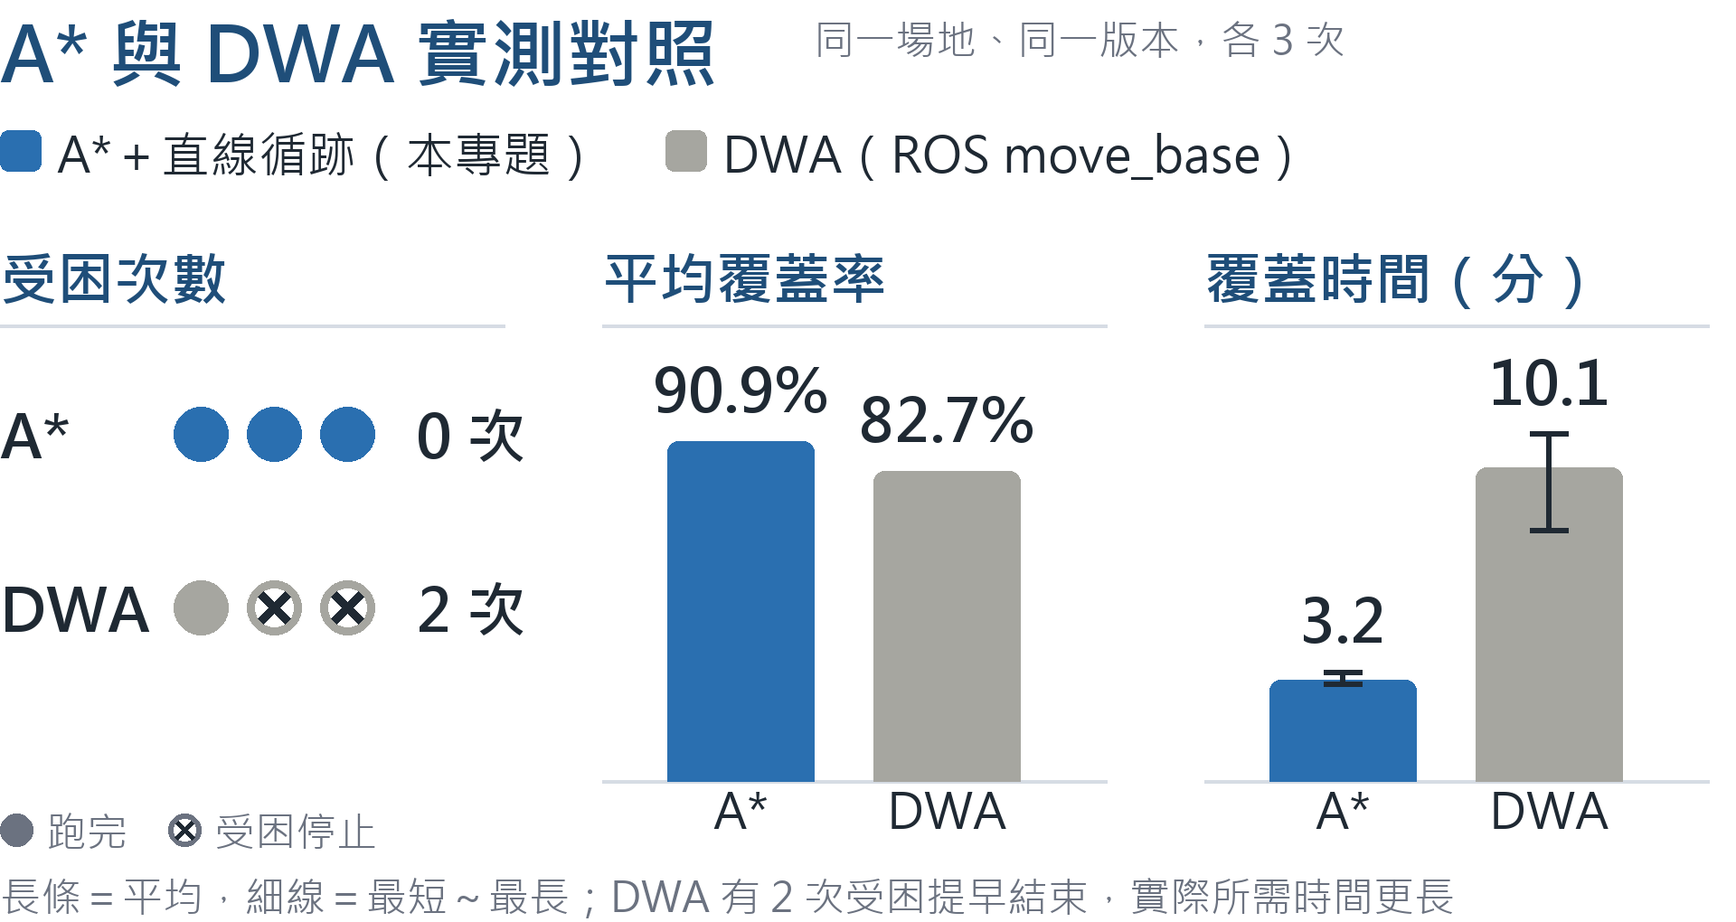
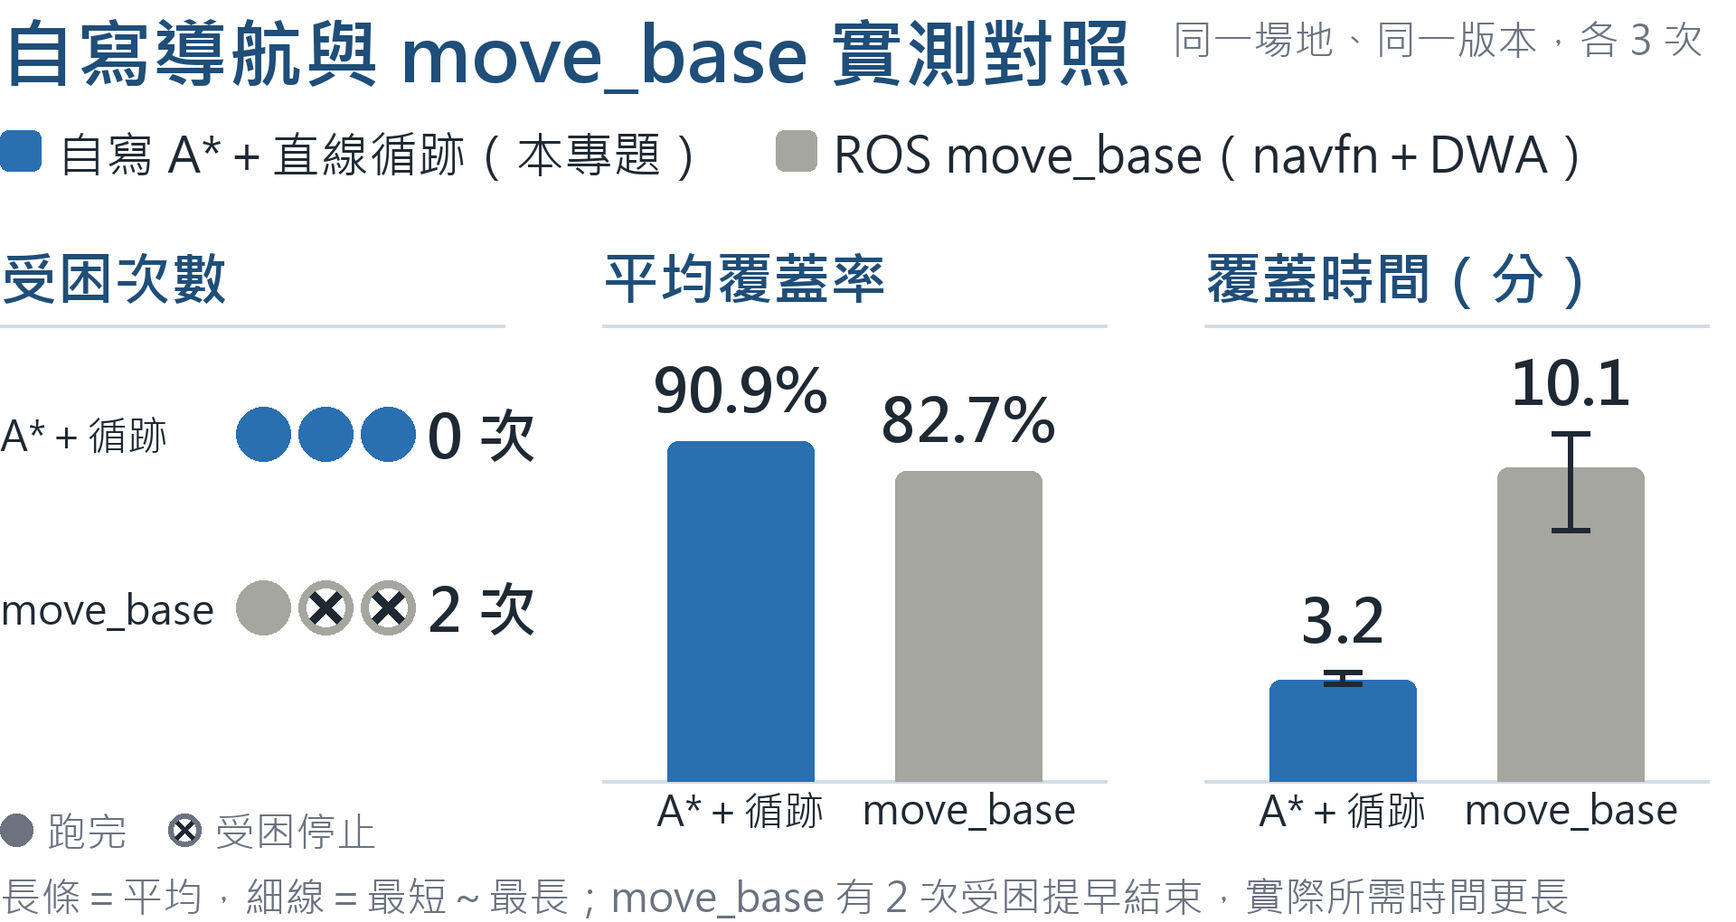
docs: 對照組名稱更正為 move_base（自寫 A*＋直線循跡 vs move_base），簡報與海報對照圖同步

diff --git a/docs/07_衝刺計畫/成果影片簡報/scenes/13-p4-dwa.html b/docs/07_衝刺計畫/成果影片簡報/scenes/13-p4-dwa.html
@@ -2,13 +2,13 @@
 <html lang="zh-Hant">
 <head>
 <meta charset="UTF-8">
-<title>13 問題四：DWA → A*</title>
+<title>13 問題四：move_base → 自寫 A*＋循跡</title>
 <link rel="stylesheet" href="base.css">
 <link rel="stylesheet" href="map.css">
 <style>.ch .base { position:absolute; left:20px; right:20px; bottom:70px; height:2px; background:#2a4a50; }
 .ch .bar { position:absolute; bottom:72px; width:120px; border-radius:6px 6px 0 0; }
 .ch .val { position:absolute; width:200px; text-align:center; font-size:44px; }
-.ch .lab { position:absolute; bottom:18px; width:200px; text-align:center; font-size:30px; font-weight:700; }
+.ch .lab { position:absolute; bottom:18px; width:200px; text-align:center; font-size:26px; font-weight:700; white-space:nowrap; }
 .sw { display:inline-block; width:22px; height:22px; border-radius:4px; vertical-align:-3px; margin-right:10px; }</style>
 <script src="../assets/scenes.js"></script>
 <script src="map.js"></script>
@@ -18,15 +18,15 @@
 <div class="stage">
 <svg id="corner" class="abs"></svg>
 <p class="abs kicker" id="kick" style="left:96px; top:64px;">問題四</p>
-<h1 class="abs k title" id="t" style="left:96px; top:108px;">DWA 在牆邊卡住</h1>
-<p class="abs" id="pp" style="left:96px; top:228px; font-size:32px;"><span class="pill p">問題</span>移動交給 ROS 的 DWA，牆邊找不到路就卡住，覆蓋拖很久甚至停擺。</p>
-<p class="abs" id="ps" style="left:96px; top:290px; font-size:32px;"><span class="pill s">解法</span>改用自寫 <span class="acid">A* 規劃路線＋直線循跡</span>。</p>
+<h1 class="abs k title" id="t" style="left:96px; top:108px;">move_base 在牆邊卡住</h1>
+<p class="abs" id="pp" style="left:96px; top:228px; font-size:32px;"><span class="pill p">問題</span>移動交給 ROS 的 move_base，它負責開車的 DWA 在牆邊找不到路就卡住，覆蓋拖很久甚至停擺。</p>
+<p class="abs" id="ps" style="left:96px; top:290px; font-size:32px;"><span class="pill s">解法</span>算路線、開車兩層一起換掉：自寫 <span class="acid">A* 規劃路線＋直線循跡開車</span>。</p>
 <p class="abs" id="pr" style="left:96px; top:352px; font-size:32px;"><span class="pill r">結果</span>同一場地各跑 3 次：</p>
-<p class="abs" id="lg" style="left:1300px; top:362px; font-size:26px;"><span class="sw" style="background:#DAFF3C;"></span>A*（本專題）　<span class="sw" style="background:#5f8288;"></span><span class="mute">DWA</span></p>
-<div class="abs ch C0" style="left:150px; top:430px; width:480px; height:560px;"><p style="font-size:36px; font-weight:900;">受困次數</p><p class="mute" style="font-size:22px;">3 次實驗中</p><div class="base"></div><div class="bar B0" style="left:60px; height:4px; background:#DAFF3C;"></div><p class="val num B0v" style="left:20px; bottom:76px; color:#DAFF3C;">0 次</p><p class="lab" style="left:20px;">A*</p><div class="bar B0" style="left:260px; height:213px; background:#5f8288;"></div><p class="val num B0v" style="left:220px; bottom:285px; color:#8FB3B8;">2 次</p><p class="lab" style="left:220px;">DWA</p></div>
-<div class="abs ch C1" style="left:720px; top:430px; width:480px; height:560px;"><p style="font-size:36px; font-weight:900;">覆蓋時間</p><p class="mute" style="font-size:22px;">平均（分鐘）</p><div class="base"></div><div class="bar B1" style="left:60px; height:86px; background:#DAFF3C;"></div><p class="val num B1v" style="left:20px; bottom:158px; color:#DAFF3C;">3.2 分</p><p class="lab" style="left:20px;">A*</p><div class="bar B1" style="left:260px; height:269px; background:#5f8288;"></div><p class="val num B1v" style="left:220px; bottom:341px; color:#8FB3B8;">10.1 分</p><p class="lab" style="left:220px;">DWA</p></div>
-<div class="abs ch C2" style="left:1290px; top:430px; width:480px; height:560px;"><p style="font-size:36px; font-weight:900;">覆蓋率</p><p class="mute" style="font-size:22px;">平均</p><div class="base"></div><div class="bar B2" style="left:60px; height:291px; background:#DAFF3C;"></div><p class="val num B2v" style="left:20px; bottom:363px; color:#DAFF3C;">90.9%</p><p class="lab" style="left:20px;">A*</p><div class="bar B2" style="left:260px; height:265px; background:#5f8288;"></div><p class="val num B2v" style="left:220px; bottom:337px; color:#8FB3B8;">82.7%</p><p class="lab" style="left:220px;">DWA</p></div>
-<p class="abs mute" id="note" style="left:150px; top:1004px; font-size:24px;">A* 3 次全部跑完；DWA 只跑完 1 次，另 2 次受困提早結束，實際所需時間更長</p>
+<p class="abs" id="lg" style="left:960px; top:362px; font-size:26px;"><span class="sw" style="background:#DAFF3C;"></span>自寫 A*＋直線循跡（本專題）　<span class="sw" style="background:#5f8288;"></span><span class="mute">move_base（navfn＋DWA）</span></p>
+<div class="abs ch C0" style="left:150px; top:430px; width:480px; height:560px;"><p style="font-size:36px; font-weight:900;">受困次數</p><p class="mute" style="font-size:22px;">3 次實驗中</p><div class="base"></div><div class="bar B0" style="left:60px; height:4px; background:#DAFF3C;"></div><p class="val num B0v" style="left:20px; bottom:76px; color:#DAFF3C;">0 次</p><p class="lab" style="left:20px;">A*＋循跡</p><div class="bar B0" style="left:260px; height:213px; background:#5f8288;"></div><p class="val num B0v" style="left:220px; bottom:285px; color:#8FB3B8;">2 次</p><p class="lab" style="left:220px;">move_base</p></div>
+<div class="abs ch C1" style="left:720px; top:430px; width:480px; height:560px;"><p style="font-size:36px; font-weight:900;">覆蓋時間</p><p class="mute" style="font-size:22px;">平均（分鐘）</p><div class="base"></div><div class="bar B1" style="left:60px; height:86px; background:#DAFF3C;"></div><p class="val num B1v" style="left:20px; bottom:158px; color:#DAFF3C;">3.2 分</p><p class="lab" style="left:20px;">A*＋循跡</p><div class="bar B1" style="left:260px; height:269px; background:#5f8288;"></div><p class="val num B1v" style="left:220px; bottom:341px; color:#8FB3B8;">10.1 分</p><p class="lab" style="left:220px;">move_base</p></div>
+<div class="abs ch C2" style="left:1290px; top:430px; width:480px; height:560px;"><p style="font-size:36px; font-weight:900;">覆蓋率</p><p class="mute" style="font-size:22px;">平均</p><div class="base"></div><div class="bar B2" style="left:60px; height:291px; background:#DAFF3C;"></div><p class="val num B2v" style="left:20px; bottom:363px; color:#DAFF3C;">90.9%</p><p class="lab" style="left:20px;">A*＋循跡</p><div class="bar B2" style="left:260px; height:265px; background:#5f8288;"></div><p class="val num B2v" style="left:220px; bottom:337px; color:#8FB3B8;">82.7%</p><p class="lab" style="left:220px;">move_base</p></div>
+<p class="abs mute" id="note" style="left:150px; top:1004px; font-size:24px;">A*＋循跡 3 次全部跑完；move_base 只跑完 1 次，另 2 次受困提早結束，實際所需時間更長</p>
 </div>
 <script>
 const d = SCENES.cover, M = MapSVG;

diff --git a/docs/07_衝刺計畫/成果影片簡報/scenes/14-conclusion.html b/docs/07_衝刺計畫/成果影片簡報/scenes/14-conclusion.html
@@ -20,7 +20,7 @@
 <div class="abs h2" style="left:1010px; top:306px; width:820px; height:2px; background:#39E6FF;"></div>
 <div class="abs cc0" style="left:96px; top:340px; width:820px;"><p style="font-size:34px; font-weight:900;">自動建圖</p><p style="font-size:28px; line-height:1.5; margin-top:8px;">開機後自主探索建圖，實測 <span class="num acid">6 / 6</span> 次建出完整地圖</p></div>
 <div class="abs cc1" style="left:96px; top:560px; width:820px;"><p style="font-size:34px; font-weight:900;">覆蓋規劃</p><p style="font-size:28px; line-height:1.5; margin-top:8px;">PCA 主軸對齊＋cell 分解；6 次實測規劃，<span class="num acid">331</span> 段掃描線全在可走區內</p></div>
-<div class="abs cc2" style="left:96px; top:780px; width:820px;"><p style="font-size:34px; font-weight:900;">循跡執行</p><p style="font-size:28px; line-height:1.5; margin-top:8px;">自寫 A*＋直線循跡取代 DWA：受困 <span class="num acid">2 → 0</span> 次、覆蓋時間 <span class="num acid">10.1 → 3.2</span> 分、覆蓋率 <span class="num acid">82.7 → 90.9%</span></p></div>
+<div class="abs cc2" style="left:96px; top:780px; width:820px;"><p style="font-size:34px; font-weight:900;">循跡執行</p><p style="font-size:28px; line-height:1.5; margin-top:8px;">自寫 A*＋直線循跡取代 move_base：受困 <span class="num acid">2 → 0</span> 次、覆蓋時間 <span class="num acid">10.1 → 3.2</span> 分、覆蓋率 <span class="num acid">82.7 → 90.9%</span></p></div>
 <div class="abs ff0" style="left:1010px; top:340px; width:820px;"><p style="font-size:34px; font-weight:900;">A* 牆邊原地轉向仍偶有擦撞</p><p class="mute" style="font-size:26px; margin-top:6px;">3 次實驗推估 3 次</p><p style="font-size:28px; margin-top:8px;"><span class="cyan">未來</span>　改善定位、加強轉向前的空間檢查</p></div>
 <div class="abs ff1" style="left:1010px; top:560px; width:820px;"><p style="font-size:34px; font-weight:900;">只驗證單一長方形空間</p><p class="mute" style="font-size:26px; margin-top:6px;">L 形、多房間時 PCA 只給一個方向</p><p style="font-size:28px; margin-top:8px;"><span class="cyan">未來</span>　先分區，再各自規劃</p></div>
 <div class="abs ff2" style="left:1010px; top:780px; width:820px;"><p style="font-size:34px; font-weight:900;">要先建完圖才能規劃</p><p class="mute" style="font-size:26px; margin-top:6px;">大空間要等整張地圖建好</p><p style="font-size:28px; margin-top:8px;"><span class="cyan">未來</span>　邊建圖邊覆蓋</p></div>

diff --git a/docs/07_衝刺計畫/成果影片簡報/index.html b/docs/07_衝刺計畫/成果影片簡報/index.html
@@ -9,7 +9,7 @@
 <iframe id="f" allow="fullscreen"></iframe>
 <p id="hud"></p>
 <script>
-const S = [["01-cover", "01 開場"], ["02-layers", "02 系統三層"], ["03-flow", "03 一鍵流程"], ["04-mapping", "04 自動建圖"], ["05-method", "05 覆蓋規劃五步驟"], ["06-pca", "06 ① PCA ② 切帶"], ["07-cells", "07 ③ cell 分解 ④ 牛耕 ⑤ 銜接"], ["08-margin", "08 安全邊距"], ["09-execute", "09 循跡執行"], ["10-p1-pca", "10 問題一：為什麼要 PCA"], ["11-p2-cross", "11 問題二：穿過障礙"], ["12-p3-noise", "12 問題三：假障礙"], ["13-p4-dwa", "13 問題四：DWA → A*"], ["14-conclusion", "14 結論與未來規劃"], ["15-demo", "15 實機展示"]];
+const S = [["01-cover", "01 開場"], ["02-layers", "02 系統三層"], ["03-flow", "03 一鍵流程"], ["04-mapping", "04 自動建圖"], ["05-method", "05 覆蓋規劃五步驟"], ["06-pca", "06 ① PCA ② 切帶"], ["07-cells", "07 ③ cell 分解 ④ 牛耕 ⑤ 銜接"], ["08-margin", "08 安全邊距"], ["09-execute", "09 循跡執行"], ["10-p1-pca", "10 問題一：為什麼要 PCA"], ["11-p2-cross", "11 問題二：穿過障礙"], ["12-p3-noise", "12 問題三：假障礙"], ["13-p4-dwa", "13 問題四：move_base → 自寫 A*＋循跡"], ["14-conclusion", "14 結論與未來規劃"], ["15-demo", "15 實機展示"]];
 let i = 0, hideT = null;
 // 記住上次看到第幾頁；頁數變少時（例如 14→13 頁）舊頁碼會超出範圍、畫面全黑，所以超出就從第 1 頁開始
 try { const k = parseInt(localStorage.getItem('ccpp-scene'), 10); if (k >= 0 && k < S.length) i = k; } catch (e) {}

diff --git a/docs/07_衝刺計畫/成果影片簡報/tools/build_scenes.py b/docs/07_衝刺計畫/成果影片簡報/tools/build_scenes.py
@@ -511,18 +511,20 @@ Scene({ duration: 11, steps: [2.4, 6.0], tracks: [
 .dt.w { fill:#DAFF3C; } .dt.big { fill:#F2F7F5; font-size:3.6px; }
 .ok { fill:#DAFF3C; font-size:3.6px; font-weight:900; text-anchor:middle; }''')
 
-# ═══ 13 問題四：DWA → A*（含數據總表）═══════════════════════
-# 三張長條圖：受困次數、覆蓋時間、覆蓋率；A*（本專題）黃綠、DWA 灰。每按一下出一張
-charts = [('受困次數', '3 次實驗中', [('A*', 0, '0 次'), ('DWA', 2, '2 次')], 3),
-          ('覆蓋時間', '平均（分鐘）', [('A*', 3.24, '3.2 分'), ('DWA', 10.07, '10.1 分')], 12),
-          ('覆蓋率', '平均', [('A*', 90.9, '90.9%'), ('DWA', 82.7, '82.7%')], 100)]
+# ═══ 13 問題四：move_base → 自寫 A*＋直線循跡（含數據總表）═══════════════════════
+# 三張長條圖：受困次數、覆蓋時間、覆蓋率；自寫 A*＋循跡（本專題）黃綠、move_base（navfn＋DWA）灰。每按一下出一張
+# 兩層（算路線、開車）一起換掉，所以比較對象是兩套完整導航，不寫成「A* vs DWA」
+A_, M_ = 'A*＋循跡', 'move_base'
+charts = [('受困次數', '3 次實驗中', [(A_, 0, '0 次'), (M_, 2, '2 次')], 3),
+          ('覆蓋時間', '平均（分鐘）', [(A_, 3.24, '3.2 分'), (M_, 10.07, '10.1 分')], 12),
+          ('覆蓋率', '平均', [(A_, 90.9, '90.9%'), (M_, 82.7, '82.7%')], 100)]
 body = '''<svg id="corner" class="abs"></svg>
 <p class="abs kicker" id="kick" style="left:96px; top:64px;">問題四</p>
-<h1 class="abs k title" id="t" style="left:96px; top:108px;">DWA 在牆邊卡住</h1>
-<p class="abs" id="pp" style="left:96px; top:228px; font-size:32px;"><span class="pill p">問題</span>移動交給 ROS 的 DWA，牆邊找不到路就卡住，覆蓋拖很久甚至停擺。</p>
-<p class="abs" id="ps" style="left:96px; top:290px; font-size:32px;"><span class="pill s">解法</span>改用自寫 <span class="acid">A* 規劃路線＋直線循跡</span>。</p>
+<h1 class="abs k title" id="t" style="left:96px; top:108px;">move_base 在牆邊卡住</h1>
+<p class="abs" id="pp" style="left:96px; top:228px; font-size:32px;"><span class="pill p">問題</span>移動交給 ROS 的 move_base，它負責開車的 DWA 在牆邊找不到路就卡住，覆蓋拖很久甚至停擺。</p>
+<p class="abs" id="ps" style="left:96px; top:290px; font-size:32px;"><span class="pill s">解法</span>算路線、開車兩層一起換掉：自寫 <span class="acid">A* 規劃路線＋直線循跡開車</span>。</p>
 <p class="abs" id="pr" style="left:96px; top:352px; font-size:32px;"><span class="pill r">結果</span>同一場地各跑 3 次：</p>
-<p class="abs" id="lg" style="left:1300px; top:362px; font-size:26px;"><span class="sw" style="background:#DAFF3C;"></span>A*（本專題）　<span class="sw" style="background:#5f8288;"></span><span class="mute">DWA</span></p>
+<p class="abs" id="lg" style="left:960px; top:362px; font-size:26px;"><span class="sw" style="background:#DAFF3C;"></span>自寫 A*＋直線循跡（本專題）　<span class="sw" style="background:#5f8288;"></span><span class="mute">move_base（navfn＋DWA）</span></p>
 '''
 for c, (name, sub, bars, vmax) in enumerate(charts):
     x0 = 150 + c * 570
@@ -536,8 +538,8 @@ for c, (name, sub, bars, vmax) in enumerate(charts):
                  f'<p class="val num B{c}v" style="left:{20 + b * 200}px; bottom:{max(h, 4) + 72:.0f}px; color:{"#DAFF3C" if b == 0 else "#8FB3B8"};">{txt}</p>'
                  f'<p class="lab" style="left:{20 + b * 200}px;">{lab}</p>')
     body += '</div>\n'
-body += '<p class="abs mute" id="note" style="left:150px; top:1004px; font-size:24px;">A* 3 次全部跑完；DWA 只跑完 1 次，另 2 次受困提早結束，實際所需時間更長</p>\n'
-scene('13-p4-dwa', '13 問題四：DWA → A*', body, '''
+body += '<p class="abs mute" id="note" style="left:150px; top:1004px; font-size:24px;">A*＋循跡 3 次全部跑完；move_base 只跑完 1 次，另 2 次受困提早結束，實際所需時間更長</p>\n'
+scene('13-p4-dwa', '13 問題四：move_base → 自寫 A*＋循跡', body, '''
 const d = SCENES.cover, M = MapSVG;
 document.getElementById('corner').outerHTML = M.open(d.bounds, 0.1, 'id="corner" class="abs" style="left:1500px; top:-1180px; width:1560px; height:1560px; opacity:.35;"')
   + M.cells(d.wall, d.res, 'wall') + M.route(d.plan) + M.close();
@@ -558,13 +560,13 @@ Scene({ duration: 10.4, steps: [1.4, 2.2, 3.0, 5.0, 7.2, 9.4], tracks: [
 ''', css='''.ch .base { position:absolute; left:20px; right:20px; bottom:70px; height:2px; background:#2a4a50; }
 .ch .bar { position:absolute; bottom:72px; width:120px; border-radius:6px 6px 0 0; }
 .ch .val { position:absolute; width:200px; text-align:center; font-size:44px; }
-.ch .lab { position:absolute; bottom:18px; width:200px; text-align:center; font-size:30px; font-weight:700; }
+.ch .lab { position:absolute; bottom:18px; width:200px; text-align:center; font-size:26px; font-weight:700; white-space:nowrap; }
 .sw { display:inline-block; width:22px; height:22px; border-radius:4px; vertical-align:-3px; margin-right:10px; }''')
 
 # ═══ 14 結論與未來規劃（與海報「五、結果與討論」一致）═══════
 concl = [('自動建圖', '開機後自主探索建圖，實測 <span class="num acid">6 / 6</span> 次建出完整地圖'),
          ('覆蓋規劃', 'PCA 主軸對齊＋cell 分解；6 次實測規劃，<span class="num acid">331</span> 段掃描線全在可走區內'),
-         ('循跡執行', '自寫 A*＋直線循跡取代 DWA：受困 <span class="num acid">2 → 0</span> 次、覆蓋時間 <span class="num acid">10.1 → 3.2</span> 分、覆蓋率 <span class="num acid">82.7 → 90.9%</span>')]
+         ('循跡執行', '自寫 A*＋直線循跡取代 move_base：受困 <span class="num acid">2 → 0</span> 次、覆蓋時間 <span class="num acid">10.1 → 3.2</span> 分、覆蓋率 <span class="num acid">82.7 → 90.9%</span>')]
 future = [('A* 牆邊原地轉向仍偶有擦撞', '3 次實驗推估 3 次', '改善定位、加強轉向前的空間檢查'),
           ('只驗證單一長方形空間', 'L 形、多房間時 PCA 只給一個方向', '先分區，再各自規劃'),
           ('要先建完圖才能規劃', '大空間要等整張地圖建好', '邊建圖邊覆蓋')]

diff --git a/docs/03_海報/gen_result_table.py b/docs/03_海報/gen_result_table.py
@@ -1,6 +1,6 @@
 #!/usr/bin/env python3
 """
-產生海報「四、成果展示」的 A* vs DWA 對照圖（640×340 海報 px）（三個並排小圖：受困、平均覆蓋率、覆蓋時間）。
+產生海報「四、成果展示」的 自寫 A*＋直線循跡 vs move_base 對照圖（640×340 海報 px）（三個並排小圖：受困、平均覆蓋率、覆蓋時間）。
 Canva 回傳超過 100k 字元會截斷、拿不到新文字元素 ID，故以圖片放入。
 
 形式：emphasis（本專題 A* 用強調藍、對照組 DWA 用灰），三個量級不同的指標各自一張小圖、各自從 0 起算（不共用軸）。
@@ -50,10 +50,11 @@ def cross(cx, cy, q, w=3):
 
 
 # 第一行：標題＋說明；第二行：圖例（≥ 2 個系列一定有圖例）
-d.text((p(0), p(0)), 'A* 與 DWA 實測對照', font=f_title, fill=NAVY)
-d.text((p(300), p(14)), '同一場地、同一版本，各 3 次', font=f_note, fill=MUTED, anchor='lm')
+# 兩層（算路線 A*／navfn、開車 循跡／DWA）一起換掉，所以比的是兩套完整導航，標籤不寫成「A* vs DWA」
+d.text((p(0), p(0)), '自寫導航與 move_base 實測對照', font=f_title, fill=NAVY)
+d.text((p(432), p(14)), '同一場地、同一版本，各 3 次', font=f_note, fill=MUTED, anchor='lm')
 lx = p(0)
-for col, name in ((ACC, 'A*＋直線循跡（本專題）'), (GRAY, 'DWA（ROS move_base）')):
+for col, name in ((ACC, '自寫 A*＋直線循跡（本專題）'), (GRAY, 'ROS move_base（navfn＋DWA）')):
     d.rounded_rectangle([lx, p(48), lx + p(15), p(63)], radius=p(3), fill=col)
     d.text((lx + p(21), p(56)), name, font=f_lab, fill=INK, anchor='lm')
     lx += p(21) + d.textlength(name, font=f_lab) + p(24)
@@ -66,17 +67,17 @@ for k, t in enumerate(('受困次數', '平均覆蓋率', '覆蓋時間（分）
     d.line([p(x0), p(PT + 32), p(x0 + PW - 10), p(PT + 32)], fill=RULE, width=p(1.5))
 
 # ── ① 受困：每次實驗一個點（實心＝跑完、空心＋✕＝受困停止） ──
-for j, (key, col, name) in enumerate((('A', ACC, 'A*'), ('D', GRAY, 'DWA'))):
+for j, (key, col, name) in enumerate((('A', ACC, 'A*＋循跡'), ('D', GRAY, 'move_base'))):
     cy = p(160 + j * 64)
-    d.text((p(0), cy), name, font=f_val, fill=INK, anchor='lm')
+    d.text((p(0), cy), name, font=f_note, fill=INK, anchor='lm')
     for i, s_ in enumerate(stuck[key]):
-        cx, r = p(74 + i * 27), p(10)
+        cx, r = p(97 + i * 23), p(10)
         if s_:
             d.ellipse([cx - r, cy - r, cx + r, cy + r], outline=col, width=p(3), fill='white')
             cross(cx, cy, p(5))
         else:
             d.ellipse([cx - r, cy - r, cx + r, cy + r], fill=col)
-    d.text((p(194), cy), f"{sum(stuck[key])} 次", font=f_val, fill=INK, anchor="rm")
+    d.text((p(198), cy), f"{sum(stuck[key])} 次", font=f_val, fill=INK, anchor="rm")
 ly = p(BOT + 18)
 d.ellipse([p(0), ly - p(6), p(12), ly + p(6)], fill=MUTED)
 d.text((p(17), ly), '跑完', font=f_note, fill=MUTED, anchor='lm')
@@ -88,7 +89,7 @@ d.text((p(79), ly), '受困停止', font=f_note, fill=MUTED, anchor='lm')
 def bars(x0, vals, vmax, fmt, ranges=None):
     """單軸長條：0 起算、上端 4 px 圓角，兩條之間留白；數值直接標在長條（或範圍線）上方。"""
     base, top = p(BOT), p(TOPB)
-    bw, gap = 54, 22
+    bw, gap = 54, 30
     d.line([p(x0), base, p(x0 + PW - 10), base], fill=RULE, width=p(1.5))
     for i, (key, col) in enumerate((('A', ACC), ('D', GRAY))):
         bx = x0 + 24 + i * (bw + gap)
@@ -105,13 +106,13 @@ def bars(x0, vals, vmax, fmt, ranges=None):
             d.line([cx, ylo, cx, yhi], fill=INK, width=p(2))
             ytxt = min(ytxt, yhi)
         d.text((p(bx + bw / 2), ytxt - p(5)), fmt(vals[key]), font=f_val, fill=INK, anchor='md')
-        d.text((p(bx + bw / 2), base + p(4)), 'A*' if key == 'A' else 'DWA', font=f_lab, fill=INK, anchor='mt')
+        d.text((p(bx + bw / 2), base + p(4)), 'A*＋循跡' if key == 'A' else 'move_base', font=f_note, fill=INK, anchor='mt')
 
 
 bars(PW + GAP, cov, 100, lambda v: f'{v:.1f}%')
 mean_t = {k: st.mean(v) for k, v in tmin.items()}
 bars(2 * (PW + GAP), mean_t, 12, lambda v: f'{v:.1f}', ranges=tmin)
-d.text((p(0), p(BOT + 42)), '長條＝平均，細線＝最短～最長；DWA 有 2 次受困提早結束，實際所需時間更長',
+d.text((p(0), p(BOT + 42)), '長條＝平均，細線＝最短～最長；move_base 有 2 次受困提早結束，實際所需時間更長',
        font=f_note, fill=MUTED, anchor='lm')
 
 img.save(OUT)

diff --git a/docs/05_開發日志/CHANGELOG.md b/docs/05_開發日志/CHANGELOG.md
@@ -4,6 +4,18 @@
 
 ---
 
+## 2026-11-27　docs：對照組名稱更正為「move_base」，不再寫「A* vs DWA」
+
+- **類型**：docs
+- **原因**：A* 是規劃層（算路線），DWA 是 move_base 裡的控制層（開車），兩者不同層；實驗是把兩層一起換掉
+  （navfn＋DWA → 自寫 A*＋直線循跡），所以對照名稱應為「自寫 A*＋直線循跡 vs move_base」。數據不變。
+- **做了什麼**：簡報 13 頁標題、問題／解法文字、長條圖標籤與圖例、註記；14 頁結論；
+  `docs/03_海報/gen_result_table.py` 標題改「自寫導航與 move_base 實測對照」、標籤改「A*＋循跡／move_base」並重產 `result_table.png`；
+  Canva 海報換上新圖、結論第 3 點改「取代 move_base」（已存檔）。
+- **限制**：兩層未拆開測，無法單獨歸功 A* 或循跡。
+
+---
+
 ## 2026-11-27　docs(slides)：成果動畫簡報第四次修改（15 頁，重排敘事順序）
 
 - **類型**：docs
